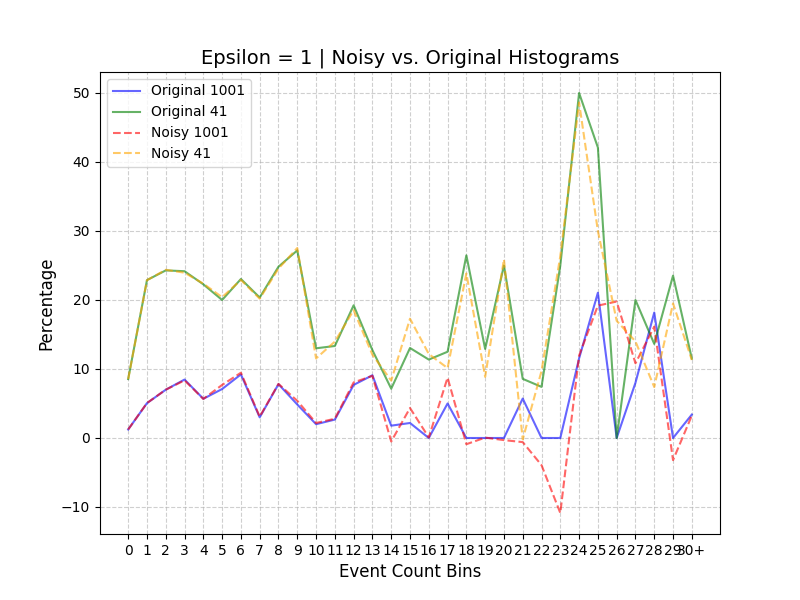
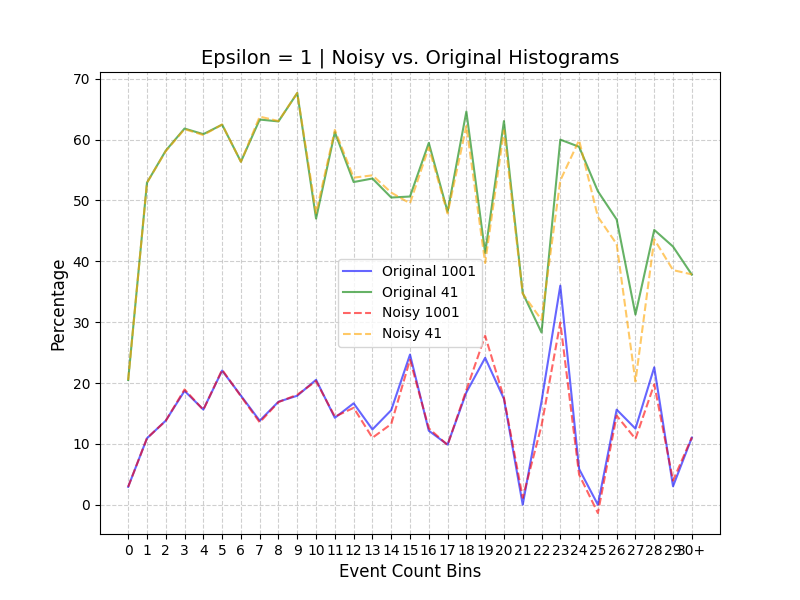
changed vis

diff --git a/src/COND_PROB/src/private.py b/src/COND_PROB/src/private.py
@@ -471,15 +471,12 @@ def main():
     #This does 1 parquet
     #parquet_path_pattern = "D:/CapstoneTyler/0007_part_00.parquet"
 
-
-    #This does all parquets in my hard drive
-    #parquet_path_pattern = "D:/CapstoneTyler/*.parquet"
-
     #This does the dummy parquets
     #parquet_path_pattern = r"C:\Users\Tyler\OneDrive\Desktop\180B\Novel-Techniques-in-Private-Data-Analysis\dummy_data\eventlog_header_hist_CONDPROB\header.parquet"
 
     #This does a select few parquets
-    parquet_path_pattern =  [r"D:\CapstoneTyler\0007_part_00.parquet",r"D:\CapstoneTyler\0007_part_36.parquet"]
+    parquet_path_pattern =  [r"D:\CapstoneTyler\0007_part_00.parquet",r"D:\CapstoneTyler\0007_part_36.parquet",r"D:\CapstoneTyler\0007_part_38.parquet",r"D:\CapstoneTyler\0007_part_39.parquet",r"D:\CapstoneTyler\0007_part_40.parquet",r"D:\CapstoneTyler\0007_part_42.parquet",
+                             r"D:\CapstoneTyler\0003_part_00.parquet",r"D:\CapstoneTyler\0003_part_36.parquet",r"D:\CapstoneTyler\0003_part_37.parquet",r"D:\CapstoneTyler\0003_part_38.parquet",r"D:\CapstoneTyler\0007_part_39.parquet",r"D:\CapstoneTyler\0007_part_40.parquet"]
 
     if isinstance(parquet_path_pattern, list):
        #This calcualtes the utilty
@@ -492,10 +489,10 @@ def main():
         try:
 
             #This calcualtes the utilty
-            print(caluculate_utility(parquet_path_pattern, [0.01,.1,1,10,100]))
+            #print(caluculate_utility(parquet_path_pattern, [0.01,.1,1,10,100]))
 
             #This plots the histogram at a certain epsilon
-            #plot = plot_histogram(parquet_path_pattern, 1, output_dir=r"D:\CapstoneTyler\visualizations")
+            plot = plot_histogram(parquet_path_pattern, 1, output_dir=r"D:\CapstoneTyler\visualizations")
 
         except FileNotFoundError as e:
             print(e)
